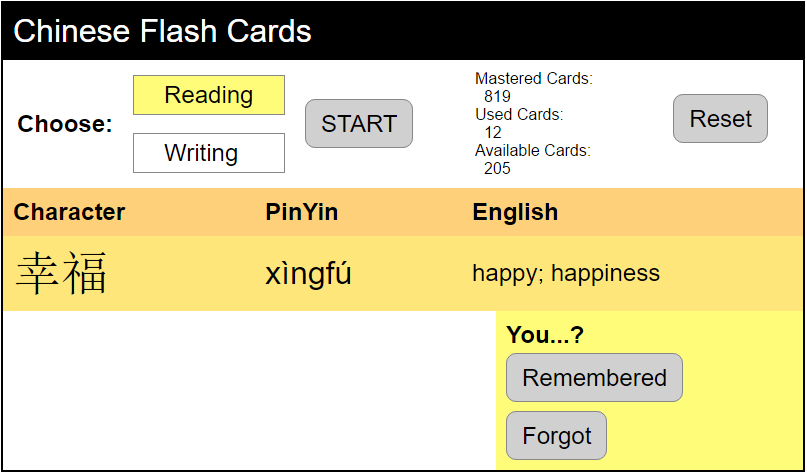
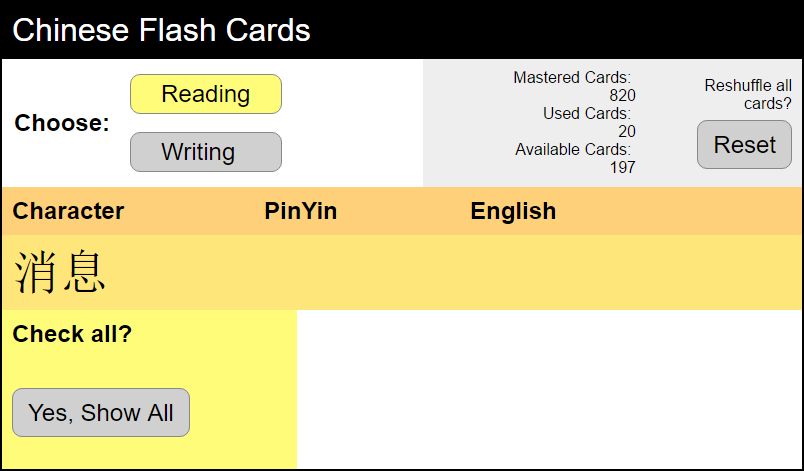
- skipped the need to hit "Start" after making the "Reading/Writing" selection - cleaned up the javascript by creating hide and show functions

diff --git a/javascript.html b/javascript.html
@@ -10,12 +10,9 @@ var state = "Reading";
 var currCard = 0;
 
 function nextCard(){
-  $('.info').fadeTo(500,0);
-  $('.info').css('visibility','hidden');
-  $('.check').fadeTo(500,0);
-  $('.check').css('visibility','hidden');
-  $('.result').fadeTo(500,0);
-  $('.result').css('visibility','hidden');
+  hide('.info');
+  hide('.check');
+  hide('.result');
   google.script.run.withSuccessHandler(function(canGo){
     if(canGo[0]){
       google.script.run.withSuccessHandler(function(cardObj){
@@ -24,35 +21,27 @@ function nextCard(){
         document.getElementById('pinyin').innerHTML = cardObj[2];
         document.getElementById('english').innerHTML = cardObj[3];
         if(state==="Reading"){
-          $('.read').css('visibility','visible');
-          $('.read').fadeTo(500,1);
-          $('.write').css('opacity',0);
-          $('.write').css('visibility','hidden');
+          show('.read');
+          hide('.write');
         }
         if(state==="Writing"){
-          $('.read').css('opacity',0);
-          $('.read').css('visibility','hidden');
-          $('.write').css('visibility','visible');
-          $('.write').fadeTo(500,1);
+          hide('.read');
+          show('.write');
         }
         document.getElementById('availcards').innerHTML = canGo[1];
         document.getElementById('usedcards').innerHTML = canGo[2];
         document.getElementById('mastercards').innerHTML = canGo[3];
-        $('.check').css('visibility','visible');
-        $('.check').fadeTo(500,1);
-        $('.result').css('opacity',0);
-        $('.result').css('visibility','hidden');
+        show('.check');
+        hide('.result');
         done();
       }).getCard(state);
     }else{
       document.getElementById('availcards').innerHTML = canGo[1];
       document.getElementById('usedcards').innerHTML = canGo[2];
       document.getElementById('mastercards').innerHTML = canGo[3];
-      $('.hideable').fadeTo(500,0);
-      $('.hideable').css('visibility', 'hidden');
+      hide('.hideable');
       document.getElementById('english').innerHTML = "Cards all Used. Please Reset";
-      $('#english').css('visibility','visible');
-      $('#english').fadeTo(500,1);
+      show('#english');
       showReset();
     }
   }).checkNotDone(state);
@@ -62,21 +51,16 @@ function start(){
   state = $('.ui-selected').text();
   if(state == "Reading" || state == "Writing"){
     processing();
-    $('#table_card').css('visibility','visible');
-    $('#table_card').css('opacity',1);
-    $('.area_card .head').css('visibility','visible');
-    $('.area_card .head').fadeTo(500,1);
+    show('#table_card');
+    show('.area_card .head');
     nextCard();
   } else {};
 }
 
 function showall(){
-  $('.info').css('visibility','visible');
-  $('.info').fadeTo(500,1);
-  $('.result').css('visibility','visible');
-  $('.result').fadeTo(500,1);
-  $('.check').fadeTo(500,0);
-  $('.check').css('visibility','hidden');
+  show('.info');
+  show('.result');
+  hide('.check');
 }
 
 function remembered(){
@@ -96,20 +80,39 @@ function reshuffle(){
 }
 
 function processing(){
-  $('#button_start').fadeTo(500,0);
-  $('#button_start').css('visibility','hidden');
-  $('.reset').fadeTo(500,0);
-  $('.reset').css('visibility','hidden');
+  hide('.'+oppositeState()+'_button');
+  hide('.reset');
 }
 
 function done(){
-  $('#button_start').css('visibility','visible');
-  $('#button_start').fadeTo(500,1);
-  showReset();
+  show('.select');
+  show('.reset');
 }
-function showReset(){
-  $('.reset').css('visibility','visible');
-  $('.reset').fadeTo(500,1);
+
+
+//utility functions
+
+function hide(string){
+  $(string).fadeTo(500,0);
+  $(string).css('visibility','hidden');
+}
+function show(string){
+  $(string).css('visibility','visible');
+  $(string).fadeTo(500,1);
+}
+
+function oppositeState(){
+  switch(state){
+    case 'Reading':
+      return 'Writing';
+      break;
+    case 'Writing':
+      return 'Reading';
+      break;
+    default:
+      return '';
+      break;
+  }
 }
 
 </script>

diff --git a/index.html b/index.html
@@ -13,21 +13,22 @@
         <td class="head initial_col1">Choose:</td>
         <td class="initial_col2">
           <ol id="selection">
-            <li class="select">Reading</li>
+            <li class="select Reading_button" title="see if you remember how to pronouce and define chinese characters and phrases" onclick="start()">Reading</li>
             <br>
-            <li class="select">Writing</li>
+            <li class="select Writing_button" title="see if you remember what characters should look like given definitions and pronunciations"onclick="start()">Writing</li>
           </ol>
         </td>
         <td class="initial_col3">
-          <a href="#" class="button" id="button_start" onclick="start()">START</a>
+          <!-- <a href="#" class="button" id="button_start" onclick="start()">START</a> -->
         </td>
-        <td class="intial_col4">
-          <p class="av_text reset">Mastered Cards: <br>&nbsp&nbsp<span id="mastercards"></span></p>
-          <p class="av_text reset">Used Cards: <br>&nbsp&nbsp<span id="usedcards"></span></p>
-          <p class="av_text reset">Available Cards: <br>&nbsp&nbsp<span id="availcards"></span></p>
+        <td class="initial_col4 reset">
+          <p class="av_text reset" title="cards gotten correct 3 times are not returned on reset">Mastered Cards: <br>&nbsp&nbsp<span id="mastercards"></span></p>
+          <p class="av_text reset" title="cards already viewed this cycle">Used Cards: <br>&nbsp&nbsp<span id="usedcards"></span></p>
+          <p class="av_text reset" title="cards not yet viewed this cycle">Available Cards: <br>&nbsp&nbsp<span id="availcards"></span></p>
         </td>
-        <td class="initial_col5" id="area_reset">
-          <a href="#" class="button reset" id="button_reset" onclick="reshuffle()">Reset</a>
+        <td class="initial_col5 reset" id="area_reset">
+          <p class="av_text reset">Reshuffle all cards?</p><br>
+          <a href="#" class="button reset" id="button_reset" onclick="reshuffle()" title="shuffle used cards back with available cards">Reset</a>
         </td>
     </table>
 
@@ -55,7 +56,7 @@
       <div class="area_buttons">
         <table>
           <tr>
-            <td class="head check hideable" id="text_check">Check?</td>
+            <td class="head check hideable" id="text_check" title="think you got it?">Check all?</td>
             <td class="filler"></td>
             <td class="head result hideable" id="text_result">You...?</td>
           </tr>

diff --git a/css.html b/css.html
@@ -45,7 +45,8 @@ ol {
   padding: 0px 0px 0px 0px;
 }
 .select {
-  background: #FFFFFF;
+  background: #D0D0D0;
+  border-radius: 10px;
   border: 1px solid #888888;
   padding:5px 30px 5px 30px;
   font-size: 150%
@@ -91,10 +92,12 @@ ol {
 .initial_col4 {
   text-align: right;
   width: 250px;
+  background-color: #EEEEEE;
 }
 .initial_col5 {
   text-align: right;
   width: 150px;
+  background-color: #EEEEEE;
 }
 p {
   font-size: 100%;
@@ -102,15 +105,13 @@ p {
 .av_text{
   padding: 0px 0px 0px 0px;
   margin: 0px 0px 0px 0px;
-  opacity: 0;
-  visibility: hidden;
-}
-#button_reset {
-  opacity: 0;
-  visibility: hidden;
 }
 #area_reset {
   padding: 10px 10px 20px 10px;
+}
+.reset {
+  opacity: 0;
+  visibility: hidden;
 }
 
 /* styling for the table for the cards */
